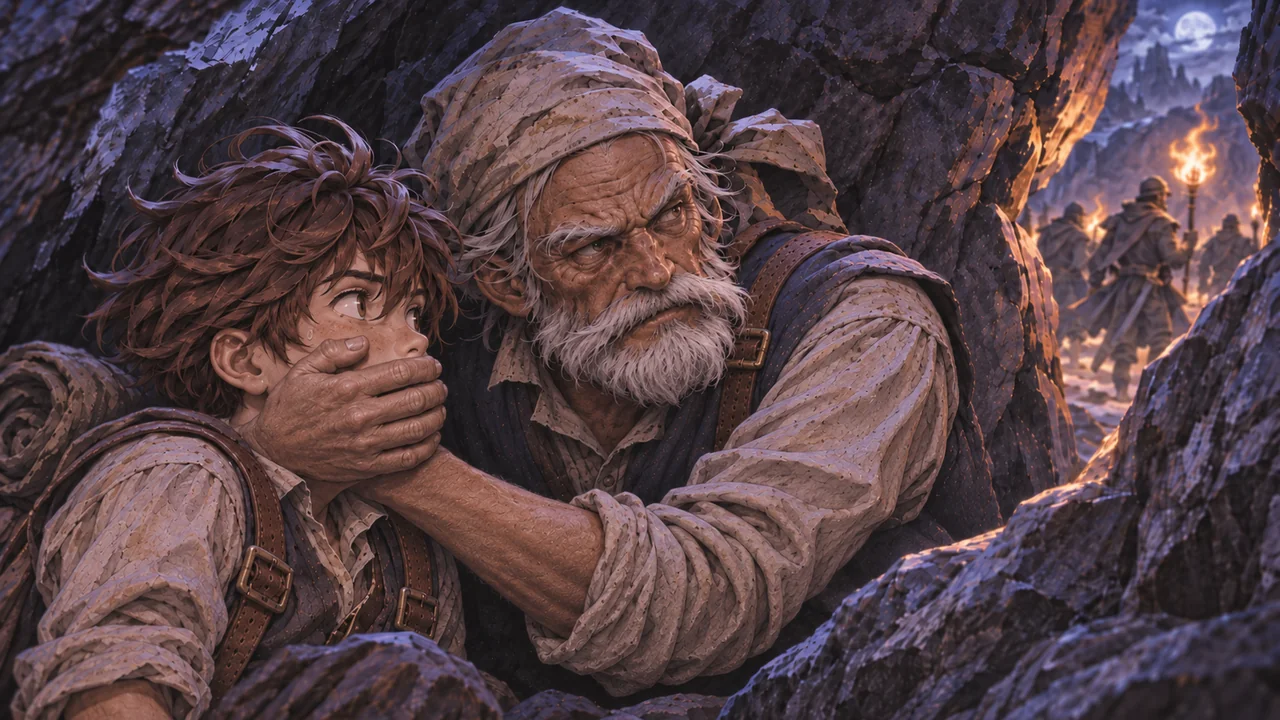
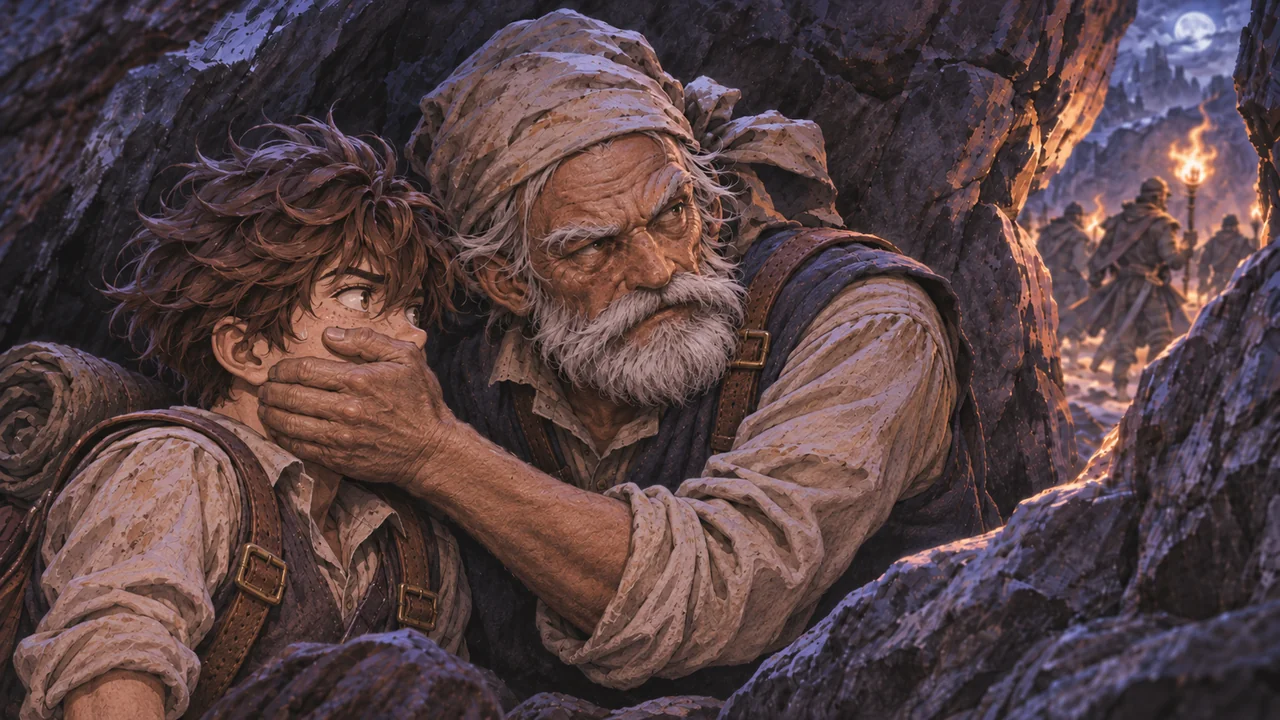
달리기 시트 머리·조끼 마스크 재생성, 남자 은신 컷 재적용, 제페토 의뢰 대사 수정
Claude-Session: https://claude.ai/code/session_01SwHSdZUuqR4fiCaFb6o9ib

diff --git a/games/autelia/index.html b/games/autelia/index.html
@@ -6,7 +6,7 @@
 <title>아우텔리아 (시제품)</title>
 <link rel="preconnect" href="https://fonts.googleapis.com">
 <link href="https://fonts.googleapis.com/css2?family=Noto+Sans+KR:wght@300;400;500;700&display=swap" rel="stylesheet">
-<link rel="stylesheet" href="css/game.css?v=154">
+<link rel="stylesheet" href="css/game.css?v=156">
 </head>
 <body>
 <div id="stage" tabindex="-1">
@@ -16,39 +16,39 @@
   <div id="boot">불러오는 중…</div>
 </div>
 <noscript><p style="padding:20px">이 게임은 JavaScript가 필요합니다.</p></noscript>
-<script src="js/config.js?v=154"></script>
-<script src="js/prologue/artmeta.js?v=154"></script>
-<script src="js/data.js?v=154"></script>
-<script src="js/mission_spans.js?v=154"></script>
-<script src="js/prologue/data.js?v=154"></script>
-<script src="js/prologue/text_intro.js?v=154"></script>
-<script src="js/story1.js?v=154"></script>
-<script src="js/story_hideout.js?v=154"></script>
-<script src="js/porto_ext.js?v=154"></script>
-<script src="js/prologue/intro_timeline.js?v=154"></script>
-<script src="js/core.js?v=154"></script>
-<script src="js/tint.js?v=154"></script>
-<script src="js/systems.js?v=154"></script>
-<script src="js/profile.js?v=154"></script>
-<script src="js/prologue/art.js?v=154"></script>
-<script src="js/prologue/art2.js?v=154"></script>
-<script src="js/prologue/engine.js?v=154"></script>
-<script src="js/prologue/scenes.js?v=154"></script>
-<script src="js/mission_evidence.js?v=154"></script>
-<script src="js/real_bridge.js?v=154"></script>
-<script src="js/world.js?v=154"></script>
-<script src="js/ui.js?v=154"></script>
-<script src="js/guide.js?v=154"></script>
-<script src="js/journal_tour.js?v=154"></script>
-<script src="js/first_mission_guide.js?v=154"></script>
-<script src="js/equip_tour.js?v=154"></script>
-<script src="js/scales/pss10_ko_park_seo_2010.js?v=154"></script>
-<script src="js/scales/perma_kperma_2019.js?v=154"></script>
-<script src="js/survey.js?v=154"></script>
-<script src="js/survey_ui.js?v=154"></script>
-<script src="js/sfx.js?v=154"></script>
-<script src="js/sfx_wire.js?v=154"></script>
-<script src="js/bgm.js?v=154"></script>
-<script src="js/main.js?v=154"></script>
+<script src="js/config.js?v=156"></script>
+<script src="js/prologue/artmeta.js?v=156"></script>
+<script src="js/data.js?v=156"></script>
+<script src="js/mission_spans.js?v=156"></script>
+<script src="js/prologue/data.js?v=156"></script>
+<script src="js/prologue/text_intro.js?v=156"></script>
+<script src="js/story1.js?v=156"></script>
+<script src="js/story_hideout.js?v=156"></script>
+<script src="js/porto_ext.js?v=156"></script>
+<script src="js/prologue/intro_timeline.js?v=156"></script>
+<script src="js/core.js?v=156"></script>
+<script src="js/tint.js?v=156"></script>
+<script src="js/systems.js?v=156"></script>
+<script src="js/profile.js?v=156"></script>
+<script src="js/prologue/art.js?v=156"></script>
+<script src="js/prologue/art2.js?v=156"></script>
+<script src="js/prologue/engine.js?v=156"></script>
+<script src="js/prologue/scenes.js?v=156"></script>
+<script src="js/mission_evidence.js?v=156"></script>
+<script src="js/real_bridge.js?v=156"></script>
+<script src="js/world.js?v=156"></script>
+<script src="js/ui.js?v=156"></script>
+<script src="js/guide.js?v=156"></script>
+<script src="js/journal_tour.js?v=156"></script>
+<script src="js/first_mission_guide.js?v=156"></script>
+<script src="js/equip_tour.js?v=156"></script>
+<script src="js/scales/pss10_ko_park_seo_2010.js?v=156"></script>
+<script src="js/scales/perma_kperma_2019.js?v=156"></script>
+<script src="js/survey.js?v=156"></script>
+<script src="js/survey_ui.js?v=156"></script>
+<script src="js/sfx.js?v=156"></script>
+<script src="js/sfx_wire.js?v=156"></script>
+<script src="js/bgm.js?v=156"></script>
+<script src="js/main.js?v=156"></script>
 </body>
 </html>

diff --git a/games/autelia/js/story1.js b/games/autelia/js/story1.js
@@ -247,7 +247,7 @@ window.AU = window.AU || {};
       reminder: ["협곡의 변형 늑대를 네 마리 물리치고 돌아오게. 스킬은 {skills} 키에서 배치할 수 있네."],
       done: [L(J(), "...좋네. 힘을 다루는 눈이 제법 자랐군."),
              L(J(), "피로도가 쌓이는 게 보였나? 가득 차면 스킬을 쓸 수 없으니, 그땐 모험일지의 '쉼' 활동이 도움이 되지. 직접 해 보고 기록하면 피로도가 줄어든다네."),
-             L(J(), "이제 본론일세. 중계소가 짐승을 보낸 곳, 어둠 세력의 아지트가 이 협곡 안쪽에 숨어 있네. 잠입해서 확인하는 일을 그대에게 부탁하고 싶네."),
+             L(J(), "이제 본론일세. 중계소가 짐승을 보낸 곳. 그곳은 협곡 안쪽에 숨어 있네. 잠입해서 그곳을 찾아내는 일을 그대에게 부탁하고 싶네."),
              L(J(), "길은 내가 열어 두겠네. 준비가 되었으면 다시 말을 걸게.")],
       reward: { exp: 1400, silver: 150, items: [["potion", 3]] },
       setFlags: { a1_jepeto_done: true },
